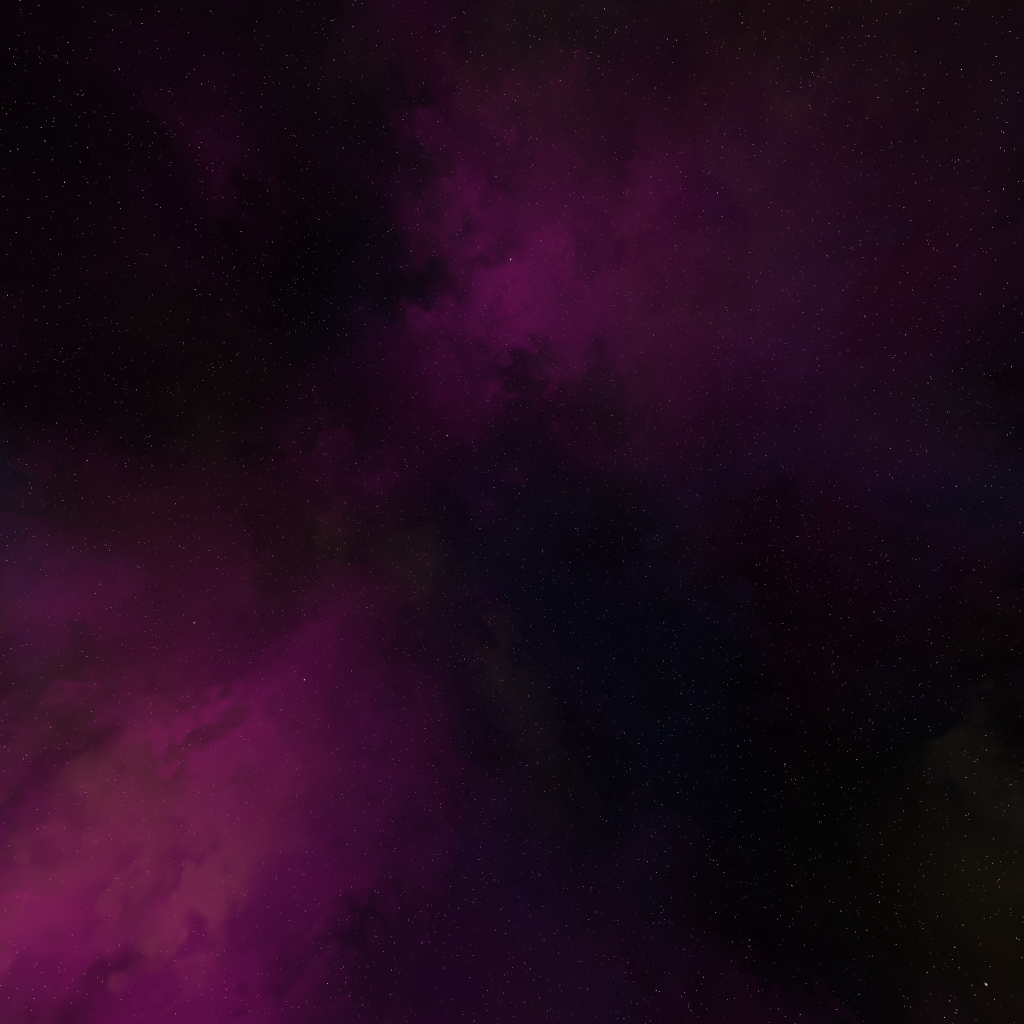
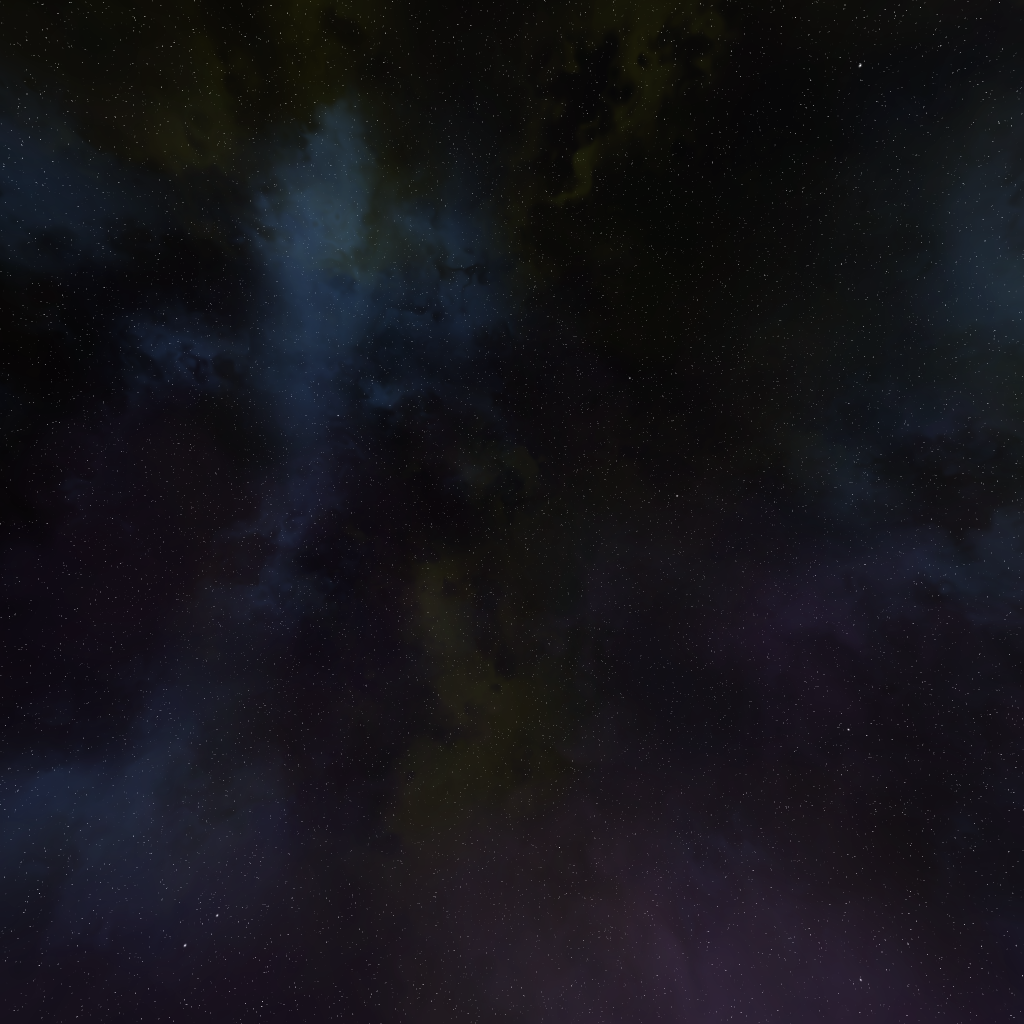
update night skybox, final sky update

diff --git a/src/cityscape.cpp b/src/cityscape.cpp
@@ -67,6 +67,7 @@ void Cityscape::render()
     // Update the camera's UBO so all shaders have access to the new values
     camera->UpdateUBO();
 
+    // Draw the sky
     sky->Draw();
 
     // TODO: Iterate registry and render all components
